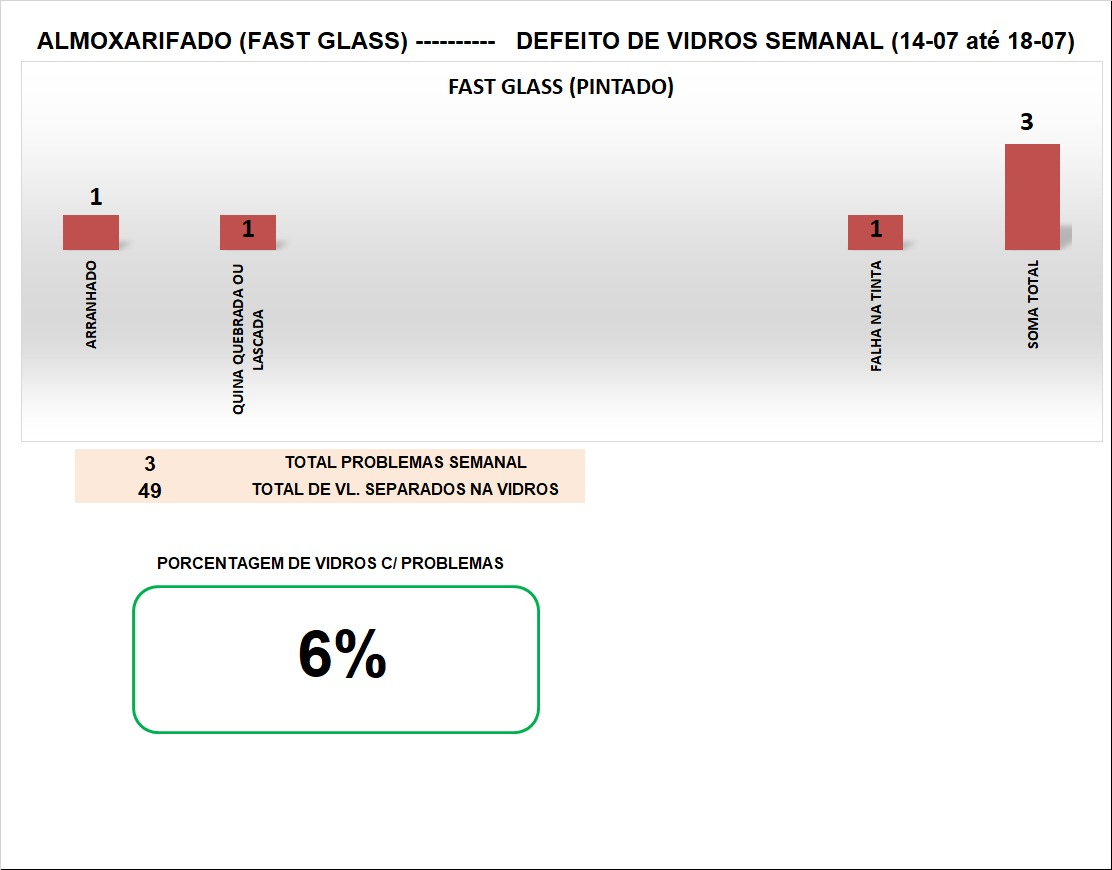
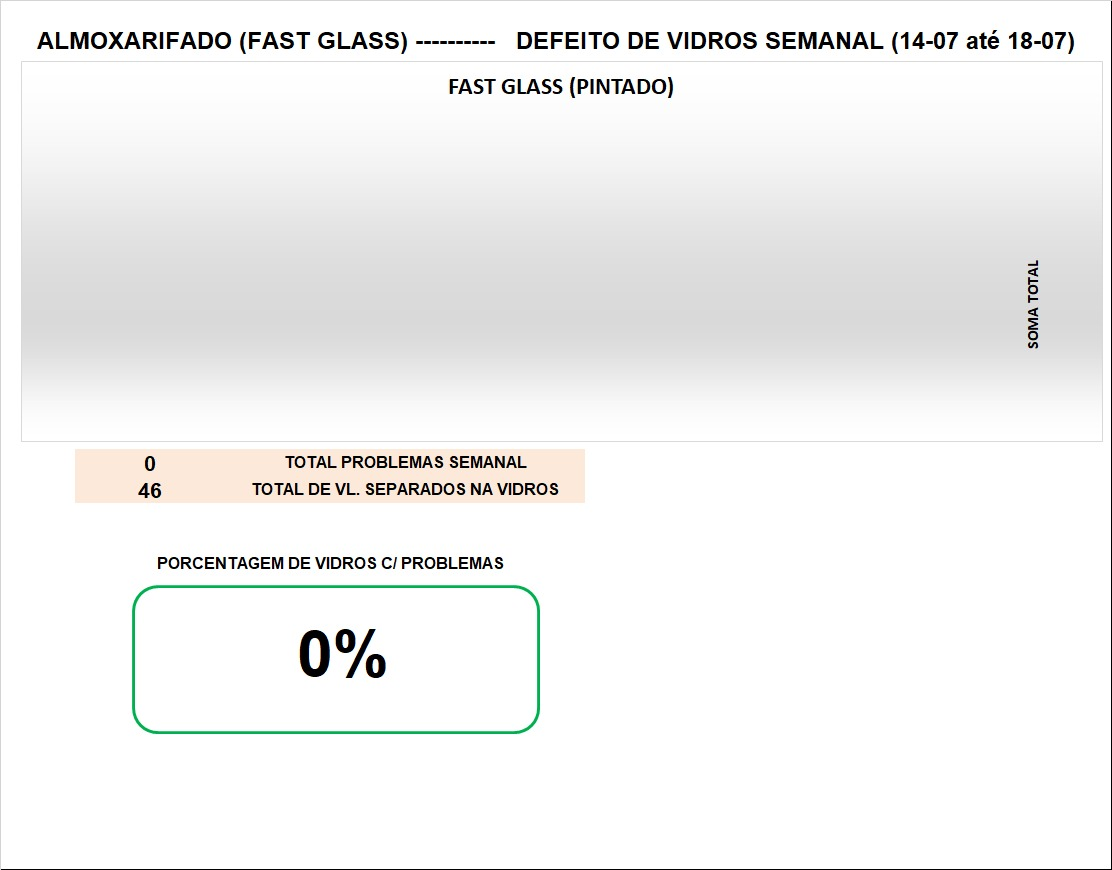
,

diff --git a/back__incial.js b/back__incial.js
@@ -5233,7 +5233,7 @@ const unidades = {
             { data: "03/07/2025", captura: ["capturas/Qualidade fornecedor/vidros/2025/JULHO/03 COLPANY.jpg"] },
             { data: "11/07/2025", captura: ["capturas/Qualidade fornecedor/vidros/2025/JULHO/11 COLPANY.jpg"] },
             { data: "18/07/2025", captura: ["capturas/Qualidade fornecedor/vidros/2025/JULHO/18 COLPANY.jpg"] },
-
+            { data: "25/07/2025", captura: ["capturas/Qualidade fornecedor/vidros/2025/JULHO/25 COLPANY.jpg"] },
 
 
             // { data: "", captura: [""] },
@@ -5335,7 +5335,7 @@ const unidades = {
             { data: "03/07/2025", captura: ["capturas/Qualidade fornecedor/vidros/2025/JULHO/03 FAST GLASS.jpg"] },
             { data: "11/07/2025", captura: ["capturas/Qualidade fornecedor/vidros/2025/JULHO/11 FAST GLASS.jpg"] },
             { data: "18/07/2025", captura: ["capturas/Qualidade fornecedor/vidros/2025/JULHO/18  FAST GLASS.jpg"] },
-
+            { data: "25/07/2025", captura: ["capturas/Qualidade fornecedor/vidros/2025/JULHO/25  FAST GLASS.jpg"] },
 
 
             // { data: "", captura: [""] },
@@ -5436,6 +5436,7 @@ const unidades = {
             { data: "03/07/2025", captura: ["capturas/Qualidade fornecedor/vidros/2025/JULHO/03 FAST GLASS.jpg", "capturas/Qualidade fornecedor/vidros/2025/JULHO/03 COLPANY.jpg"] },
             { data: "11/07/2025", captura: ["capturas/Qualidade fornecedor/vidros/2025/JULHO/11 COLPANY.jpg", "capturas/Qualidade fornecedor/vidros/2025/JULHO/11 FAST GLASS.jpg"] },
             { data: "18/07/2025", captura: ["capturas/Qualidade fornecedor/vidros/2025/JULHO/18 COLPANY.jpg", "capturas/Qualidade fornecedor/vidros/2025/JULHO/18  FAST GLASS.jpg"] },
+            { data: "25/07/2025", captura: ["capturas/Qualidade fornecedor/vidros/2025/JULHO/25 COLPANY.jpg", "capturas/Qualidade fornecedor/vidros/2025/JULHO/25  FAST GLASS.jpg"] },
 
 
 
